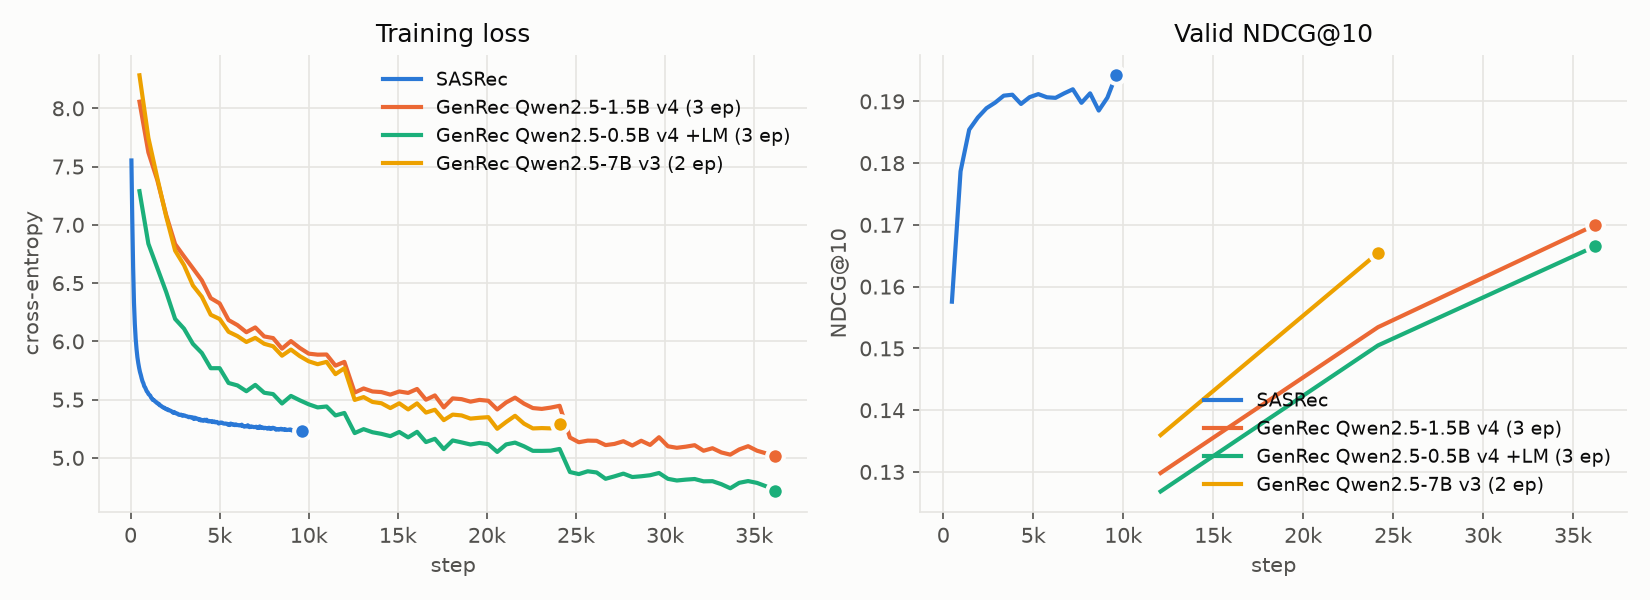
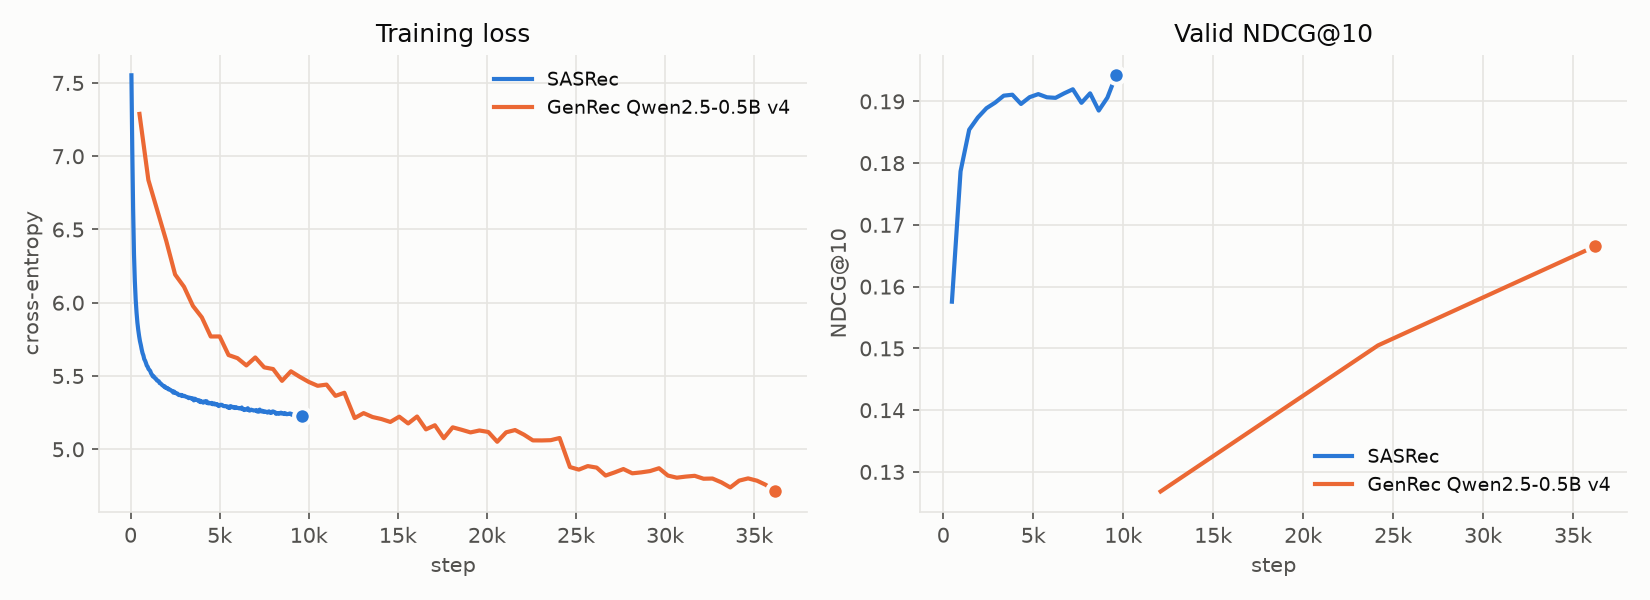
Report only the full faithful recipe; plan the v3/v4/v5 × size grid
- results.md: prompt × size grid (v3/v4/v5 × 0.5B/1.5B/3B + 7B v4) with
  LM loss and 3 epochs only; ranking-only results moved out
- plan.md: grid runs #23-28 queued, history 50 as #29; development grid
  and findings kept here
- plot.py: figures use full-recipe runs only, one scaling line per prompt

diff --git a/plot.py b/plot.py
@@ -18,7 +18,7 @@ from common import RUNS
 
 OUT = Path(__file__).parent / "docs" / "figures"
 SERIES = ["#2a78d6", "#eb6834", "#1baf7a", "#eda100", "#e87ba4"]  # validated categorical order
-LINE_COLOR = {"v2": 0, "v3": 1, "v4": 2, "v5": 3, "v4+LM": 4}  # color follows the prompt, never its rank
+LINE_COLOR = {"v3": 1, "v4": 2, "v5": 3}  # color follows the prompt, never its rank
 SURFACE, INK, INK2, GRID = "#fcfcfb", "#0b0b0b", "#52514e", "#e6e5e1"
 
 plt.rcParams.update({
@@ -43,9 +43,7 @@ def label(path, info):
     model = path.name.split("_")[0]
     if model == "genrec" and info:
         prompt = info["args"].get("prompt", "v2")
-        ep = info["args"].get("epochs", 1)
-        lm = " +LM" if info["args"].get("lm_weight", 0) > 0 else ""
-        return f"GenRec {info['args']['backbone'].split('/')[-1]}" + ("" if prompt == "v2" else f" {prompt}") + lm + f" ({ep} ep)"
+        return f"GenRec {info['args']['backbone'].split('/')[-1]} {prompt}"
     return {"sasrec": "SASRec"}.get(model, model)
 
 
@@ -54,9 +52,10 @@ def main_runs():
     for p in sorted(RUNS.glob("*_*")):
         info, _ = read_run(p)
         a = info["args"] if info else {}
-        if info and not a.get("users") and a.get("seed", 42) == 42 and not a.get("rating_weight") \
+        faithful = p.name.startswith("sasrec") or (a.get("lm_weight", 0) > 0 and a.get("epochs") == 3)
+        if info and faithful and not a.get("users") and a.get("seed", 42) == 42 and not a.get("rating_weight") \
                 and a.get("history", 20) == 20:
-            yield p, info
+            yield p, info  # results.md shows the full faithful recipe only (LM loss, 3 epochs)
 
 
 def valid_score(p, info):
@@ -116,10 +115,9 @@ def plot_scaling(runs):
     cells, sasrec = {}, None
     for p, info in main_runs():
         a = info["args"]
-        lm = a.get("lm_weight", 0) > 0  # LM-loss runs form their own line ("v4+LM" = full faithful recipe)
         size = re.search(r"(\d+(?:\.\d+)?)B", a.get("backbone", "")) if p.name.startswith("genrec") else None
         if size:
-            line = a.get("prompt", "v2") + ("+LM" if lm else "")
+            line = a.get("prompt", "v2")
             key, ep = (line, float(size.group(1))), a.get("epochs", 1)
             rank = (-abs(ep - SCALING_EPOCHS), valid_score(p, info))  # closest to SCALING_EPOCHS, then best valid
             if key not in cells or rank > cells[key][0]:
@@ -139,9 +137,7 @@ def plot_scaling(runs):
     for prompt, pts in sorted(points.items()):
         color = SERIES[LINE_COLOR.get(prompt, 0)]
         xs, ys, eps = zip(*sorted(pts))
-        name = "GenRec full recipe (v4 + LM loss)" if prompt == "v4+LM" else f"GenRec ({prompt} prompt, ranking only)"
-        ax.plot(xs, ys, "-o", color=color, markeredgecolor=SURFACE, markeredgewidth=2.5 if prompt == "v4+LM" else 2,
-                linewidth=2.5 if prompt == "v4+LM" else 1.5, label=name)
+        ax.plot(xs, ys, "-o", color=color, markeredgecolor=SURFACE, markeredgewidth=2, label=f"GenRec {prompt}")
         for x, y, ep in zip(xs, ys, eps):  # exact values live in results.md; only flag off-schedule points
             if ep != SCALING_EPOCHS:
                 ax.annotate(f"{ep} ep", (x, y), xytext=(8, 0), textcoords="offset points", va="center", fontsize=9, color=INK2)
@@ -153,7 +149,7 @@ def plot_scaling(runs):
     ax.set_xscale("log")
     ax.set_xticks(sizes, [f"{x:g}B" for x in sizes])
     ax.minorticks_off()
-    ax.set(title=f"Test NDCG@10 vs backbone size ({SCALING_EPOCHS} epochs)", xlabel="backbone parameters", ylabel="NDCG@10", ylim=(0.13, None))
+    ax.set(title="Test NDCG@10 vs backbone size (full faithful recipe)", xlabel="backbone parameters", ylabel="NDCG@10", ylim=(0.13, None))
     ax.title.set_color(INK)
     ax.legend(loc="lower right", fontsize=9)
     fig.tight_layout()

diff --git a/docs/results.md b/docs/results.md
@@ -2,52 +2,44 @@
 
 MovieLens-1M · leave-one-out · test split · full catalog (3,706 items, seen items masked)
 
-GenRec rows use the full faithful recipe (v4 prompt + LM loss β=0.1, 3 epochs).
+All GenRec numbers use the **full faithful recipe**: LM loss β=0.1, 3 epochs, per-size LR (see Settings). Rows/columns vary only the model size and the prompt version (context engineering). Development runs and ablations are in [plan.md](plan.md).
 
+## Prompt × size (test NDCG@10)
+| Size \ prompt | v3 (+genres) | v4 (+user profile) | v5 (+synopsis) |
+|---|---|---|---|
+| 0.5B | ⏳ | 0.1575 | ⏳ |
+| 1.5B | ⏳ | ⏳ | ⏳ |
+| 3B | ⏳ | 🔄 | ⏳ |
+| 7B | – | ⬜ | – |
+
+Baselines: **SASRec (tuned) 0.1820**, Popularity 0.0180.
+
+## All metrics
 | Model | MRR | HR@10 | NDCG@10 | Δ NDCG@10 vs SASRec | Train time | Machine | Cost |
 |---|---|---|---|---|---|---|---|
 | Popularity | 0.0199 | 0.0369 | 0.0180 | −90% | – | – | – |
 | **SASRec (tuned)** | **0.1547** | **0.3209** | **0.1820** | – | 56.2 min | Apple M1 (MPS) | $0 |
-| GenRec Qwen2.5-0.5B | 0.1353 | 0.2765 | 0.1575 | −13% | 247.1 min | RTX 4060 Ti (Local) | $0 |
-| GenRec Qwen2.5-1.5B | 🔄 | | | | | RTX 4060 Ti (Local) | $0 |
-| GenRec Qwen2.5-3B | 🔄 | | | | | RTX 4060 Ti (Local) | $0 |
-| GenRec Qwen2.5-7B | ⬜ | | | | | A100 80GB (Cloud) | ~$15–16 |
-
-### Ablations: ranking-only (no LM loss)
-| Model | MRR | HR@10 | NDCG@10 | Δ vs SASRec | Note |
-|---|---|---|---|---|---|
-| Qwen2.5-0.5B, v4 | 0.1310 | 0.2717 | 0.1530 | −16% | same as 0.5B row without LM loss |
-| Qwen2.5-1.5B, v4 | 0.1372 | 0.2730 | 0.1581 | −13% | |
-| Qwen2.5-7B, v3, 2 ep | 0.1369 | 0.2692 | 0.1569 | −14% | earlier run, 2 epochs |
+| GenRec 0.5B v4 | 0.1353 | 0.2765 | 0.1575 | −13% | 247.1 min | RTX 4060 Ti (Local) | $0 |
 
 ## Figures
-Generated by `uv run python plot.py` from `runs/`.
+Generated by `uv run python plot.py` from `runs/` (full-recipe runs only).
 
 ![Training curves](figures/curves.png)
 
-- Step = one optimizer update; SASRec step = 128 full sequences, GenRec step = 8 prompts → x-axes are not comparable across models.
+- Step = one optimizer update; SASRec step = 128 full sequences, GenRec step = 8 prompts → x-axes are not comparable across models. GenRec training loss includes the LM term.
 
 ![Scaling](figures/scaling.png)
 
 ## Settings
 | Item | Config |
 |---|---|
-| Row selection | full-recipe run per model size; among repeats, best by **valid** NDCG@10 (test never used to choose) |
-| SASRec | d=128, 2 layers, 2 heads, max_len=200, dropout=0.2, lr=1e-3, batch=128, 200 epochs; chosen from a d∈{64,128} × dropout∈{0.2,0.5} (+2 heads) grid by valid |
-| GenRec (faithful recipe) | Qwen2.5 + LoRA r=16 (q,k,v,o); last-token h → LayerNorm → h·E (random-init E); CE over full catalog; history 20; prompt v4; LM loss β=0.1; 16 samples/user/epoch; batch 8; 3 epochs; lr 2e-4 (0.5B) / 1e-4 (1.5B, 3B) / 5e-5 (7B) for LoRA, 1e-3 for head; 5–10% warmup → linear decay; grad clip 1.0; bf16 |
-
-## Findings (faithful recipe)
-- **Gap (so far):** full recipe at 0.5B: 0.1575, 13% below tuned SASRec (0.1820); ranking-only runs at 1.5B / 7B land at ~0.157–0.158
-- **Size (ranking-only so far):** 0.5B → 1.5B → 7B is flat on test; valid gains at equal epochs (+7–8% for 7B vs 1.5B) do not carry over. Full-recipe size curve pending (#20–22)
-- **Prompts (context engineering):** v2 → v3 (+genres) +4% at both sizes; v4 (+user profile) 0 / +2%; v5 (+synopsis) no gain at +30–60% compute
-- **LM loss (β=0.1):** 0.1530 → 0.1575 (+2.9%, within noise; valid +0.7%); kept as paper-faithful
-- **Reward (rating) weighting:** 0.1473, no gain — the metric counts the next rating regardless of its value
-- **Epochs:** 3 is enough; 8 epochs: valid 0.1700 → 0.1661, test 0.1581 → 0.1558 (train loss 4.2 = memorization)
-- **Noise:** two seeds of 0.5B v3 → 0.1500 / 0.1558 (±2%); differences under ~4% are not significant
-- **Stability:** warmup + grad clip are required (without them training can collapse to popularity); LoRA LR must drop with size
+| Prompts | v3: last 20 movies as `title [genres] rating`; v4: v3 + `User: gender, age, occupation`; v5: v3 + first synopsis sentence for the last 5 movies |
+| GenRec | Qwen2.5 + LoRA r=16 (q,k,v,o); last-token h → LayerNorm → h·E (random-init E); L = 0.9·CE over full catalog + 0.1·LM(target title); 16 samples/user/epoch; batch 8; 3 epochs; LoRA lr 2e-4 (0.5B) / 1e-4 (1.5B, 3B) / 5e-5 (7B), head lr 1e-3; 5% (0.5B) / 10% warmup → linear decay; grad clip 1.0; bf16 |
+| SASRec | d=128, 2 layers, 2 heads, max_len=200, dropout=0.2, lr=1e-3, batch=128, 200 epochs; chosen from a d × dropout × heads grid by valid NDCG@10 |
+| Selection | valid NDCG@10 only; test reported once |
 
 ## Notes
 - Backbone choice is ours: the paper uses an internal ~1B–10B LLM with Netflix-specific pretraining (Phase 1); no equivalent here
-- SASRec tuning: untuned (d=64, 100 ep) 0.1681 → tuned 0.1820 (+8%); same valid-based selection as GenRec
-- Train time includes periodic valid eval, excludes final test eval; Cloud cost = pod time at $0.74/h (RTX 4090) or $1.59/h (A100)
+- Run-to-run noise is about ±2% (two seeds, ranking-only 0.5B); differences under ~4% are not significant
+- Train time includes periodic valid eval, excludes final test eval; Cloud cost = pod time ($0.74/h RTX 4090, $1.59/h A100)
 - Timestamps are noisy: 52.9% of consecutive ratings share a timestamp → low ceiling for next-item metrics

diff --git a/docs/plan.md b/docs/plan.md
@@ -64,8 +64,8 @@ runs/      # (gitignored) <model>_<time>/log.txt, metrics.json, history.csv, *.p
 | 1 | Data, split, verbalize | ✅ |
 | 2 | Baselines: Popularity, SASRec (tuned) | ✅ SASRec 0.1820 |
 | 3 | GenRec pipeline + training stability (warmup, clip) | ✅ |
-| 4 | Faithful ablations: prompts, LM loss, rating weights, epochs | ✅ (history length ⏳ #23) |
-| 5 | Size scaling with the full recipe (★): 0.5B → 1.5B → 3B → 7B | 🔄 0.5B ✅, 3B #20, 1.5B #21, 7B #22 |
+| 4 | Development ablations: prompts, LM loss, rating weights, epochs | ✅ (history length ⏳ #29) |
+| 5 | Full-recipe grid (★): v3/v4/v5 × 0.5B/1.5B/3B + 7B v4 | 🔄 0.5B v4 ✅; #20–28 running/queued (~5 days Local) |
 | 6 | README: results + reproduce | ⬜ |
 
 ## Runs
@@ -93,9 +93,15 @@ runs/      # (gitignored) <model>_<time>/log.txt, metrics.json, history.csv, *.p
 | 20 | ★ 3B v4 + LM loss | 🔄 eval | Local | ~25 h | $0 | – |
 | 21 | ★ 1.5B v4 + LM loss | ⏳ queued | Local | ~12.5 h | $0 | – |
 | 22 | ★ **Final: 7B v4 + LM loss** | ⬜ ready | Cloud A100 80GB | ~9–10 h | ~$15–16 | – |
-| 23 | 0.5B v4 + LM loss, history 50 (ablation vs #19) | ⏳ queued | Local | ~11 h | $0 | – |
+| 23 | ★ 0.5B v3 + LM loss | ⏳ queued | Local | ~4 h | $0 | – |
+| 24 | ★ 0.5B v5 + LM loss | ⏳ queued | Local | ~6 h | $0 | – |
+| 25 | ★ 1.5B v3 + LM loss | ⏳ queued | Local | ~12 h | $0 | – |
+| 26 | ★ 1.5B v5 + LM loss | ⏳ queued | Local | ~17 h | $0 | – |
+| 27 | ★ 3B v3 + LM loss | ⏳ queued | Local | ~24 h | $0 | – |
+| 28 | ★ 3B v5 + LM loss | ⏳ queued | Local | ~35 h | $0 | – |
+| 29 | 0.5B v4 + LM loss, history 50 (ablation vs #19) | ⏳ queued | Local | ~11 h | $0 | – |
 
-★ = full faithful recipe (v4 prompt + LM loss, 3 epochs). All other GenRec runs are ablations (ranking-only and/or other prompts/epochs).
+★ = full faithful recipe (LM loss, 3 epochs; prompt v3/v4/v5) → reported in results.md. All other GenRec runs are development runs/ablations, kept here only.
 
 ### SASRec tuning (#17; M1, 200 ep, selected by valid)
 | d | dropout | heads | Valid NDCG@10 | Test NDCG@10 |
@@ -106,13 +112,29 @@ runs/      # (gitignored) <model>_<time>/log.txt, metrics.json, history.csv, *.p
 | 128 | 0.5 | 1 | 0.1605 | 0.1546 |
 | **128** | **0.2** | **2** | **0.1942** | **0.1820** ← baseline |
 
-### Prompt × size grid (test NDCG@10, 3 ep; "+LM" = full recipe ★)
+### Full-recipe grid ★ (test NDCG@10) — reported in results.md
+| Size \ prompt | v3 | v4 | v5 |
+|---|---|---|---|
+| 0.5B | #23 | 0.1575 (#19) | #24 |
+| 1.5B | #25 | #21 | #26 |
+| 3B | #27 | #20 | #28 |
+| 7B | – | #22 | – |
+
+### Development grid (ranking-only, no LM loss; test NDCG@10, 3 ep)
 | Size \ prompt | v2 | v3 | v4 | v5 |
 |---|---|---|---|---|
-| 0.5B | 0.1441 (#4) | 0.1500 (#7), seed 43: 0.1558 (#10) | 0.1530 (#14), +LM 0.1575 (#19) | 0.1520 (#13) |
-| 1.5B | 0.1486 (#5) | 0.1546 (#8) | 0.1581 (#15), +LM #21 | 0.1552 (#16) |
-| 3B | – | – | +LM #20 | – |
-| 7B | – | 0.1569 (#9, 2 ep) | +LM final #22 | – |
+| 0.5B | 0.1441 (#4) | 0.1500 (#7), seed 43: 0.1558 (#10) | 0.1530 (#14) | 0.1520 (#13) |
+| 1.5B | 0.1486 (#5) | 0.1546 (#8) | 0.1581 (#15) | 0.1552 (#16) |
+| 7B | – | 0.1569 (#9, 2 ep) | – | – |
+
+### Development findings (not in results.md)
+- **Stability:** warmup + grad clip required (without them training collapsed to popularity, #3 vs #2); LoRA LR must drop with size (1.5B at 2e-4 stalled)
+- **Noise:** two seeds of 0.5B v3 → 0.1500 / 0.1558 (±2%); differences under ~4% are not significant
+- **Prompts (ranking-only):** v2 → v3 +4% at both sizes; v4 0 / +2%; v5 no gain at +30–60% compute
+- **Size (ranking-only):** 0.5B → 1.5B → 7B flat on test (0.153–0.158)
+- **LM loss:** 0.5B v4 0.1530 → 0.1575 (+2.9%, within noise) → adopted as part of the faithful recipe
+- **Reward (rating) weighting:** 0.1473, no gain (metric counts the next rating regardless of value) → not used
+- **Epochs:** 3 is enough; 5 ep test 0.1627 but valid flat; 8 ep valid 0.1700 → 0.1661 (memorization) → 3 epochs
 
 ## Later: beyond the faithful recipe (to discuss)
 Not in the paper; only after the faithful results are final, and always labeled.
